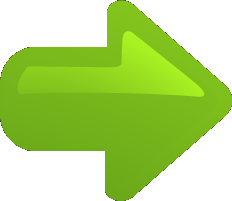
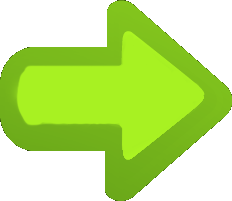
Chnaged arrow png, added start and exit, and event listner

Changed region(s): [[0.0603, 0.3284, 0.875, 0.806]]

diff --git a/Tetris.js b/Tetris.js
@@ -31,6 +31,7 @@ var canvas = document.getElementById('canvas1');
 var ctx = canvas.getContext('2d');	
 var sprites = [];
 var frameCounter = 0;
+var inTitle=true;
 		
 var clearCanvas = function()
 {
@@ -40,7 +41,7 @@ var clearCanvas = function()
 }
 
 var init = function()
-{	
+{
 	var bgm = new Audio("Sound/bgm.mp3");
 	bgm.loop = true;
 	//bgm.play();
@@ -79,15 +80,22 @@ var init = function()
 	//TitleYoshi instantiation
 	TitleYoshiImage = new Image();
 	TitleYoshiImage.src = "./Graphics/TitleScreenYoshiAnimation.png"
-	TitleYoshi = new Sprite(110, 40, 68, 96);
+	TitleYoshi = new Sprite(200, 40, 68, 96);
 	TitleYoshiStill = new Animation(TitleYoshiImage, 0, 0, 68, 96, 1, 0);
 	TitleYoshiBlink = new Animation(TitleYoshiImage, 0, 96, 68, 96, 2, 4);
 	TitleYoshiBabyBlink = new Animation(TitleYoshiImage, 0, 192, 68, 96, 2, 4);
 	TitleYoshi.setAnimation(TitleYoshiStill);
+
+	//Arrow instantiation
+	var arrowImage = new Image();
+	arrowImage.src = "./Graphics/arrow.png";
+	var arrow = new Sprite(40,108,40,25); //  40 for both, 57 for start & 108 for finish
+	var arrowAnimation = new Animation(arrowImage,0,0,232,201,0,0);
+	arrow.setAnimation(arrowAnimation);
 	
 	//The sprites get pushed into an array
 	sprites.push(TitleYoshi);
-	sprites.push(yoshi);
+	sprites.push(arrow);
 	sprites.push(trickman);
 	sprites.push(oreo);
 	sprites.push(ronPaul);
@@ -95,6 +103,48 @@ var init = function()
 	
 	gameLoop();
 }
+
+////////////////////////////
+////////////////////////////
+////////////////////////////
+
+//This is the event used to capture keyevents
+//The internet told me to do it this way
+/*               '.       
+        .-""-._     \ \.--|  
+       /       "-..__) .-'   
+     ಠ_______ಠ             /     
+      \'-.__,   .__.,'       
+       `'----'._\--'  
+     * Whale whale whale, what have we here?
+     */
+canvas.onkeydown = function(evt) {
+       var charCode = evt.which;
+       var charStr = String.fromCharCode(charCode);
+       keyPress(charStr);
+   };
+
+function keyPress(event)
+{
+	if (titleScreen)
+	{
+		if (event=="&" || event=="(")
+		{
+			if (sprites[1].getY()==57)
+				sprites[1].y=108;
+			else
+				sprites[1].y=57;
+		}
+	}
+	else
+	{
+
+	}
+}
+
+////////////////////////////
+////////////////////////////
+///////////////////////////
 
 var rainingBlocks = function()
 {
@@ -149,6 +199,7 @@ var rainingBlocks = function()
 
 var titleScreen = function()
 {
+	
 	var logo = new Image();
 	logo.src="./Graphics/Logo.png";
 	ctx.drawImage(logo, 90,10);
@@ -157,25 +208,25 @@ var titleScreen = function()
 	//ctx.fillStyle = "white";
 	//ctx.font = "italic 20pt /Fonts/AGENCYB.ttf";
 	//ctx.fillText("Tetris Defense!", 90, 35);
-	if(frameCounter > 100)
+	if(frameCounter > 50)
 	{
-		sprites[0].move(0, -0.2);
+		sprites[0].move(0, -0.4);
 		sprites[0].setAnimation(TitleYoshiBlink);
 	}
 	else
 	{
-		sprites[0].move(0, 0.2);
+		sprites[0].move(0, 0.4);
 	}
-	if(frameCounter > 108)
+	if(frameCounter > 54)
 	{
 		sprites[0].setAnimation(TitleYoshiStill);
 	}
-	if(frameCounter > 200)
+	if(frameCounter > 100)
 	{
-		sprites[0].move(0, 0.2);
+		sprites[0].move(0, 0.4);
 		sprites[0].setAnimation(TitleYoshiBabyBlink);
 	}
-	if(frameCounter > 208)
+	if(frameCounter > 104)
 	{
 		sprites[0].setAnimation(TitleYoshiStill);
 		frameCounter = 0;
@@ -190,41 +241,91 @@ var titleScreen = function()
 	var arrowImage = new Image();
 	arrowImage.src = "./Graphics/arrow.png"
 	frameCounter++;
+	var start = new Image();
+	start.src = "./Graphics/start.png"
+	ctx.drawImage(start, 90, 50, 60, 40);
+	var exit = new Image();
+	exit.src = "./Graphics/exit.png"
+	ctx.drawImage(exit, 90, 100, 60, 40);
+
+	if(frameCounter >= 0 && frameCounter <= 13)
+	{
+		//console.log("first called")
+		sprites[1].move(-0.8, 0);
+	}
+	else if (frameCounter > 13 && frameCounter <= 26)
+	{
+		//console.log("second called")
+		sprites[1].move(0.8, 0);
+	}
+	else if(frameCounter <= 39 && frameCounter > 26)
+	{
+		//console.log("third called")
+		sprites[1].move(-.8,0);
+	}
+	else if(frameCounter >39 && frameCounter <= 52)
+	{
+		//console.log("fourth called")
+		sprites[1].move(0.8, 0);
+	}
+	else if (frameCounter >52 && frameCounter <= 65)
+	{
+		//console.log("fifth called")
+		sprites[1].move(-.8,0);
+	}
+	else if (frameCounter >65 && frameCounter <= 78)
+	{
+		//console.log("sixth called")
+		sprites[1].move(.8, 0);
+	}
+	else if(frameCounter <= 91 && frameCounter > 78)
+	{
+		//console.log("seventh called")
+		sprites[1].move(-.8,0);
+	}
+	else if(frameCounter > 91 && frameCounter <=104)
+	{
+		//console.log("eigth called")
+		sprites[1].move(0.8, 0);
+	}
+
 }
 
 var gameLoop = function ()
 {
+	rainingBlocks();
 	clearCanvas();
 	//ctx.drawImage(background, 0, 0, window.innerWidth, window.innerHeight);
 	ctx.fillStyle = "black";
 	ctx.fillRect(0, 0, canvas.width, canvas.height);
-	rainingBlocks();
-	for(var i = sprites.length-1; i >= 0; i--)
-	{
-		//this.sprites[i].draw(ctx);
-		if(i == 0)
+		for(var i = sprites.length-1; i >= 0; i--)
 		{
-			//this.sprites[i].move(-2, 0);
-		}
-		else
-		{
-			if(i > 4)
+			//this.sprites[i].draw(ctx);
+			if(i == 1)
 			{
 				this.sprites[i].draw(ctx);
-				if(this.sprites[i].getY() > window.innerHeight)
+			}
+			else
+			{
+				if(i > 4)
 				{
-					this.sprites.splice(i,1);
-				}
-				else
-				{
-					this.sprites[i].move(0, 1);
+					this.sprites[i].draw(ctx);
+					if(this.sprites[i].getY() > window.innerHeight)
+					{
+						this.sprites.splice(i,1);
+					}
+					else
+					{
+						this.sprites[i].move(0, 2);
+					}
 				}
 			}
 		}
-	}
-	titleScreen();
-	requestAnimFrame(gameLoop, canvas);
-}
-	
+		if (inTitle)
+		{	
+			titleScreen();
+		}	
+		requestAnimFrame(gameLoop, canvas);
+}	
 	
 

diff --git a/Tetris.html b/Tetris.html
@@ -6,8 +6,10 @@
 </style>
 </head>
 <body onload = "init();">
+<script>
+</script>
 <div style = "width:800px; height:600px; margin: 0 auto; padding: 5px;">
-<canvas id = "canvas1" style = "width: 800px; height: 600px; margin: 0 auto;"></canvas>
+<canvas id = "canvas1" tabindex="1" style = "width: 800px; height: 600px; margin: 0 auto;"></canvas>
 </div>
 <script type = "text/javascript" src = "sprite.js"></script>
 <script type = "text/javascript" src = "Tetris.js"></script>
